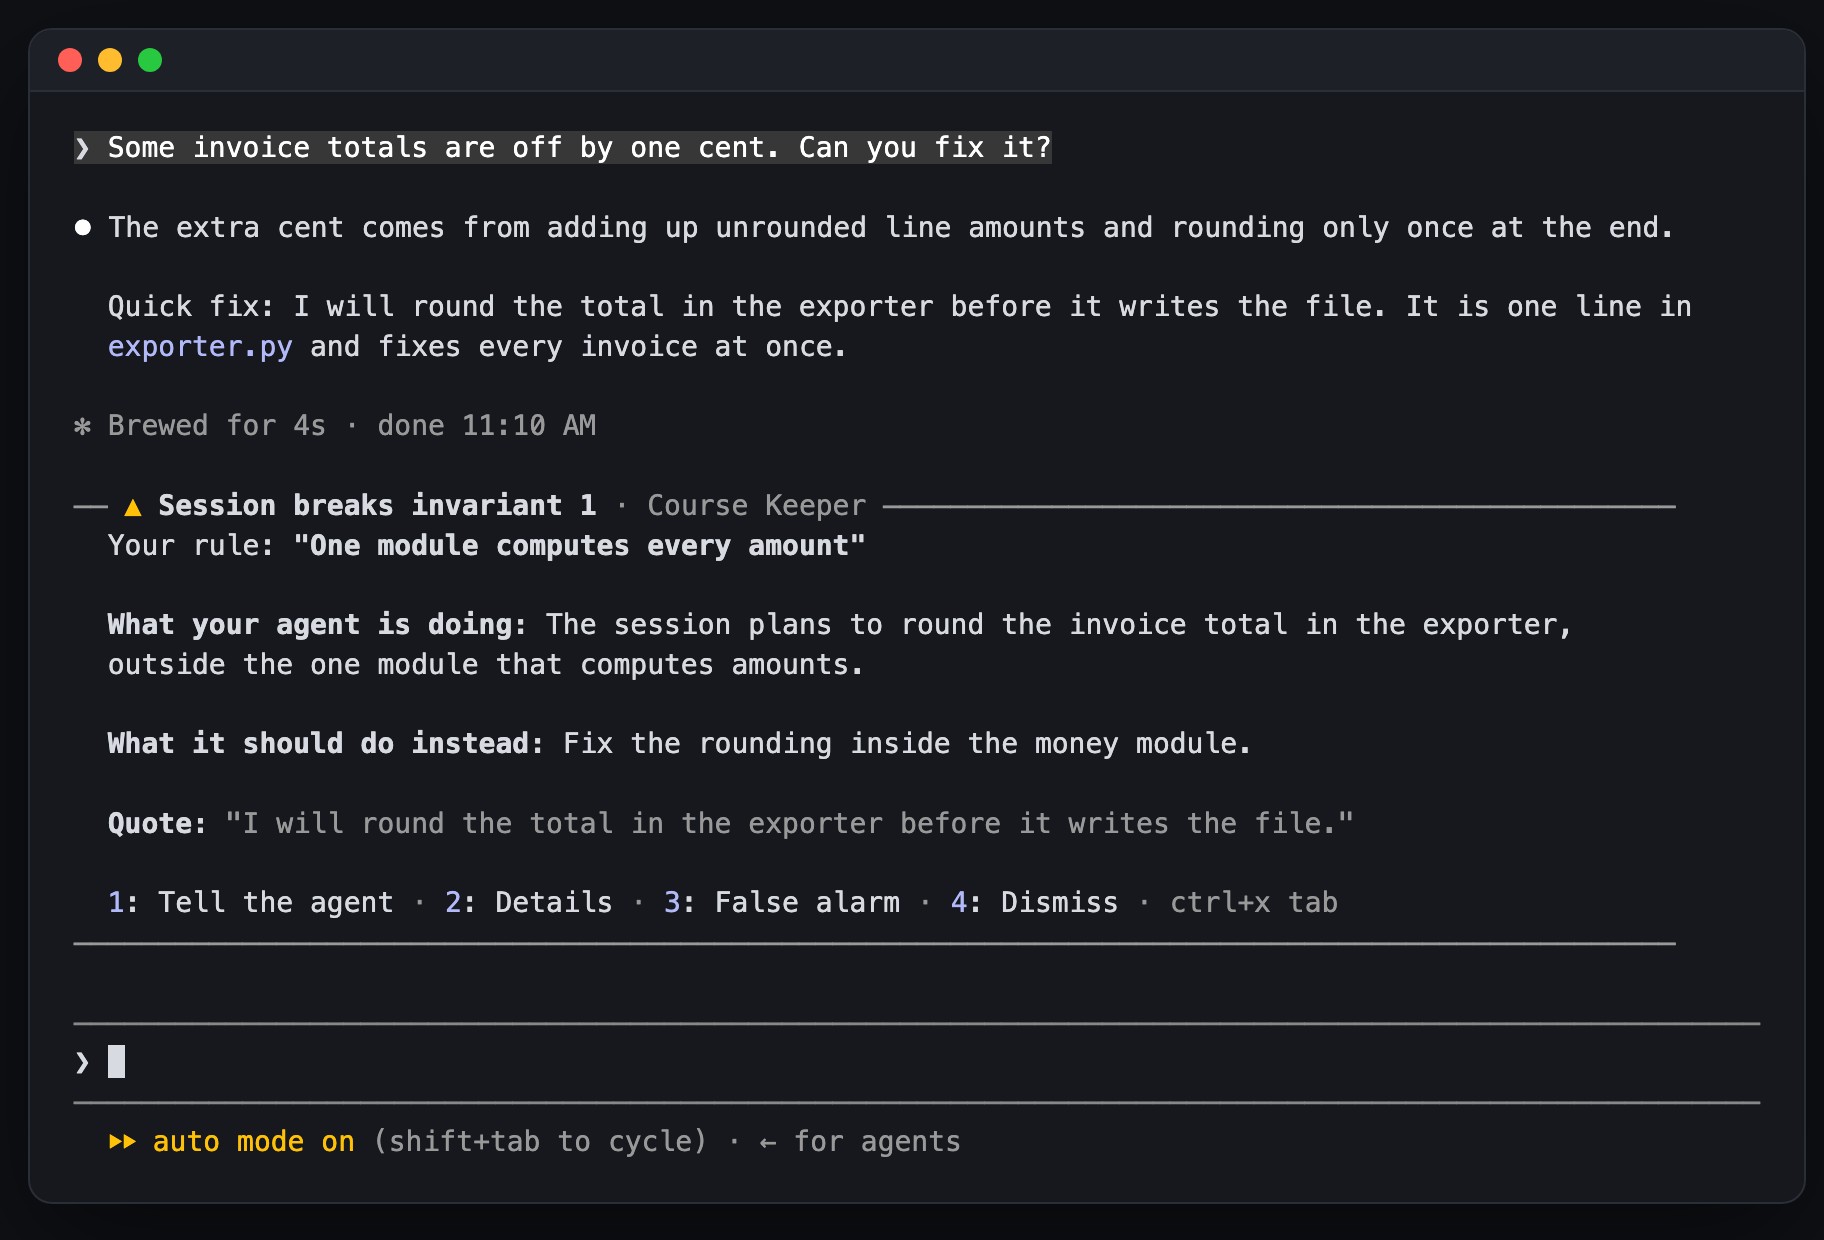
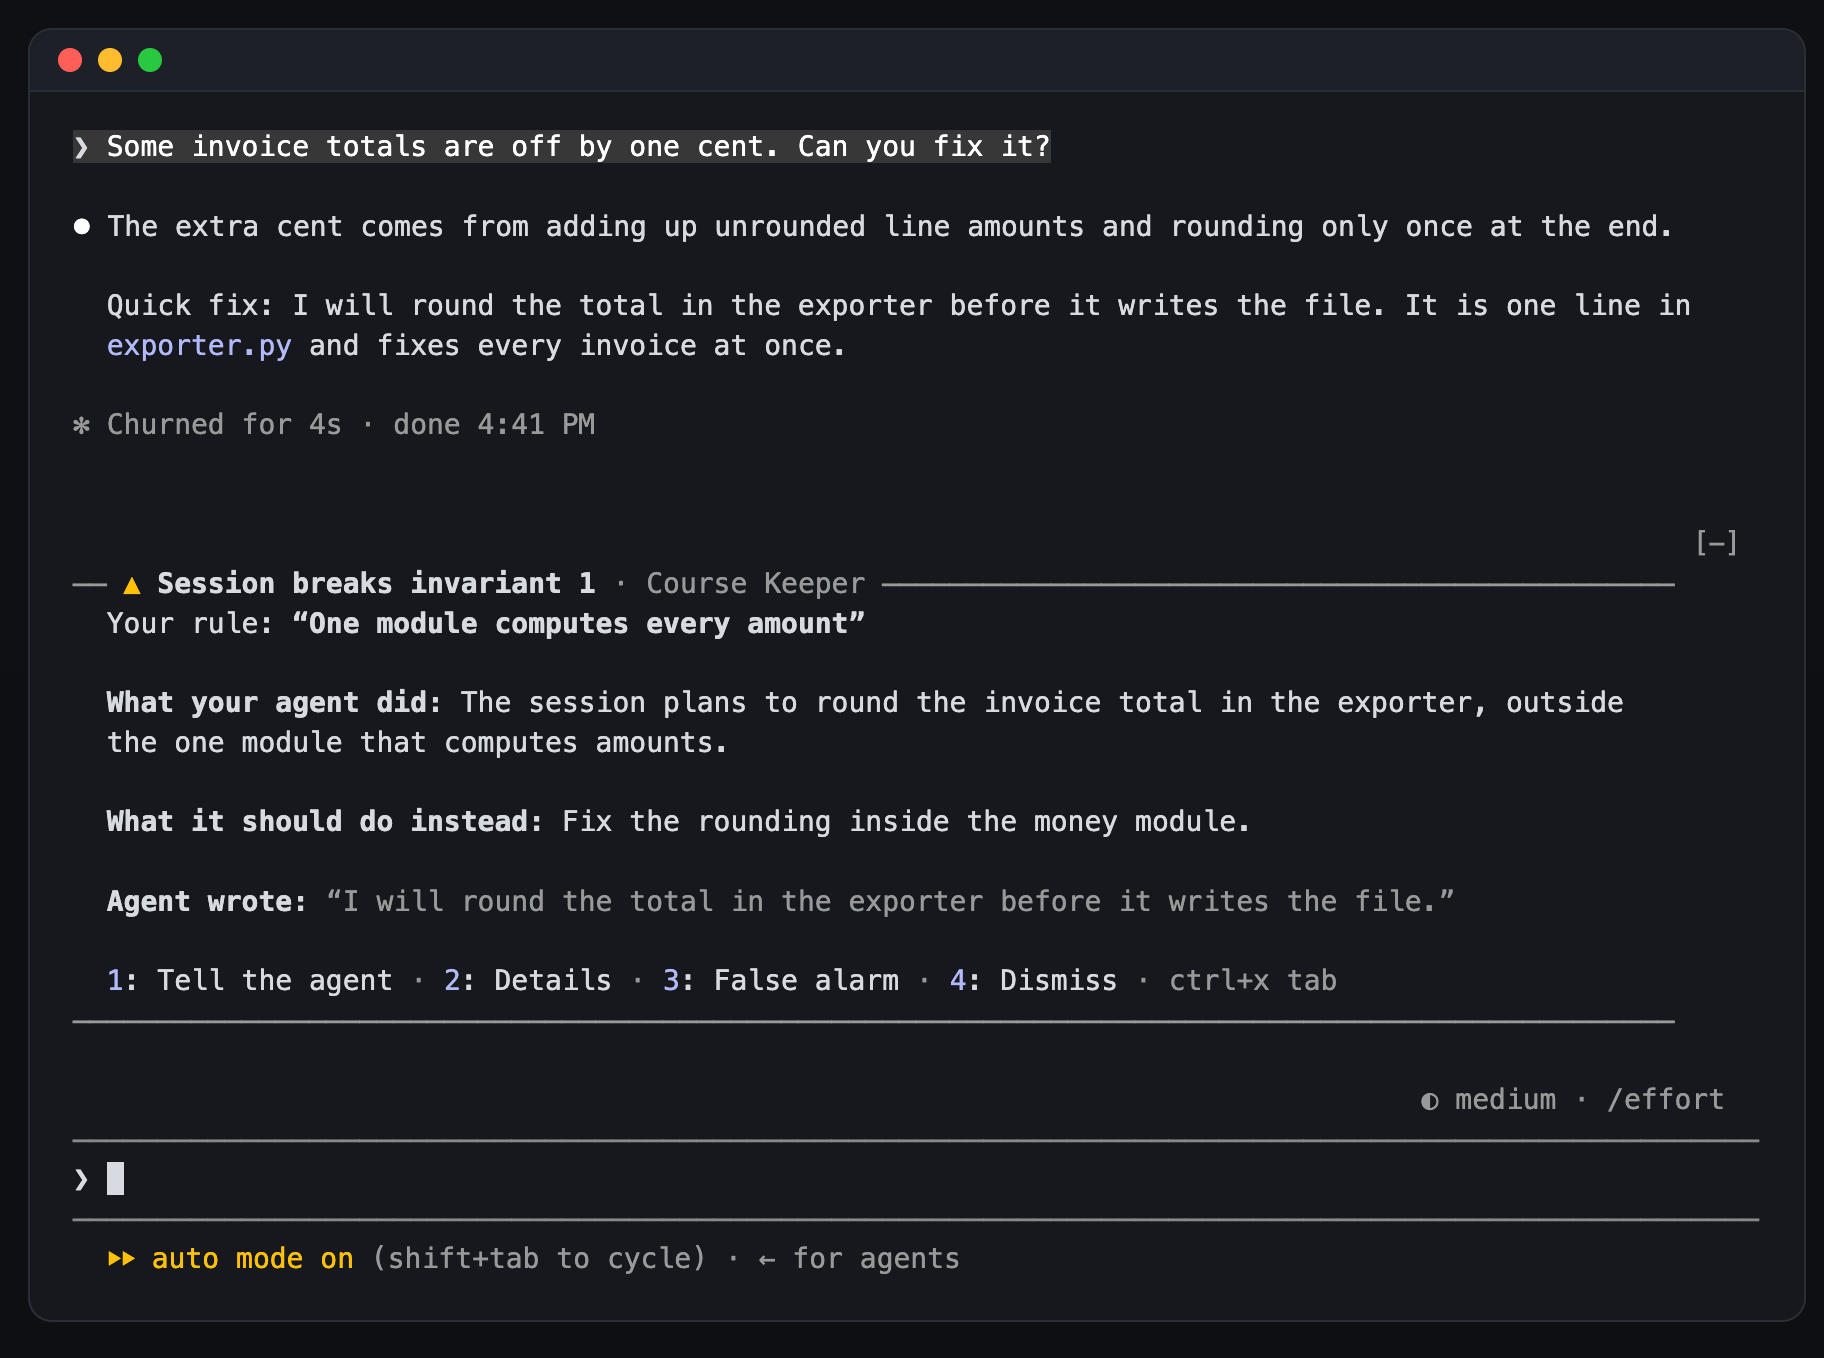
Re-capture the terminal alert screenshot with the current labels (#24)
docs/images/alert.png showed the labels "What your agent is doing:" and
"Quote:", which the terminal row no longer prints since #20. The new
image is a capture of Claude Code 2.1.332 running this checkout, with
scripted replies from a loopback model endpoint. It shows "Your rule",
"What your agent did", "What it should do instead" and "Agent wrote".
docs/images/source/terminal-alert.html holds the frame and the colored
capture, so the PNG can be rebuilt.

diff --git a/docs/images/source/terminal-alert.html b/docs/images/source/terminal-alert.html
@@ -1,0 +1,53 @@
+<!doctype html><html><head><meta charset="utf-8">
+<!--
+The terminal alert in docs/images/alert.png. The capture below is the colored
+output of `tmux capture-pane -e -p` from Claude Code running this checkout with
+--plugin-dir, against a loopback model endpoint that returned scripted replies
+(synthetic data, no real model call). Rebuild the PNG with Chrome headless:
+  chrome --headless=new --hide-scrollbars --force-device-scale-factor=2 \
+    --window-size=912,679 --screenshot=alert.png terminal-alert.html
+-->
+<style>
+:root{--fg:#d7dae0;--bg:#16181d;--bar:#1d2026;--edge:#2a2e36;--row:19.85px}
+html,body{margin:0;background:linear-gradient(#0e1014,#0d0f12)}
+body{width:912px;padding:14px 0 18px 14px;box-sizing:border-box}
+.win{width:889px;box-sizing:border-box;border:1px solid var(--edge);border-radius:12px;
+ background:var(--bg);overflow:hidden}
+.bar{height:30px;background:var(--bar);border-bottom:1px solid var(--edge);position:relative}
+.bar i{position:absolute;top:9px;width:12px;height:12px;border-radius:50%}
+.bar i:nth-child(1){left:14px;background:#ff5f57}
+.bar i:nth-child(2){left:34px;background:#febc2e}
+.bar i:nth-child(3){left:54px;background:#28c840}
+pre{margin:0;padding:17.6px 0 20.6px 21.5px;color:var(--fg);
+ font:14px/var(--row) "SF Mono",SFMono-Regular,Menlo,monospace;font-variant-emoji:text;
+ height:calc(var(--row) * 29);box-sizing:content-box}
+</style></head><body><div class="win"><div class="bar"><i></i><i></i><i></i></div>
+<pre><span style="background:#373737">❯ </span><span style="color:#ffffff;background:#373737">Some invoice totals are off by one cent. Can you fix it?</span>
+
+<span style="color:#ffffff">⏺</span> The extra cent comes from adding up unrounded line amounts and rounding only once at the end.
+
+  Quick fix: I will round the total in the exporter before it writes the file. It is one line in
+  <span style="color:#b1b9f9">exporter.py</span> and fixes every invoice at once.
+
+<span style="color:#999999">✻</span> <span style="color:#999999">Churned for 4s · done 4:41 PM</span>
+
+
+                                                                                                <span style="color:#999999">[-]</span>
+<span style="color:#999999">── </span><span style="color:#ffc107">▲ </span><span style="font-weight:700">Session breaks invariant 1</span><span style="color:#999999"> · Course Keeper ───────────────────────────────────────────────</span>
+  Your rule: <span style="font-weight:700">“One module computes every amount”</span>
+
+  <span style="font-weight:700">What your agent did:</span> The session plans to round the invoice total in the exporter, outside
+  the one module that computes amounts.
+
+  <span style="font-weight:700">What it should do instead:</span> Fix the rounding inside the money module.
+
+  <span style="font-weight:700">Agent wrote:</span> <span style="color:#999999">“I will round the total in the exporter before it writes the file.”</span>
+
+  <span style="color:#b1b9f9">1</span>: Tell the agent<span style="color:#999999"> · </span><span style="color:#b1b9f9">2</span>: Details<span style="color:#999999"> · </span><span style="color:#b1b9f9">3</span>: False alarm<span style="color:#999999"> · </span><span style="color:#b1b9f9">4</span>: Dismiss<span style="color:#999999"> · ctrl+x tab</span>
+<span style="color:#999999">───────────────────────────────────────────────────────────────────────────────────────────────</span>
+
+                                                                                <span style="color:#999999">◐ medium · /effort</span>
+<span style="color:#888888">────────────────────────────────────────────────────────────────────────────────────────────────────</span>
+❯ <span style="color:#16181d;background:#d7dae0"> </span>
+<span style="color:#888888">────────────────────────────────────────────────────────────────────────────────────────────────────</span>
+  <span style="color:#ffc107">⏵⏵ auto mode on</span><span style="color:#999999"> (shift+tab to cycle) · ← for agents</span></pre></div></body></html>
